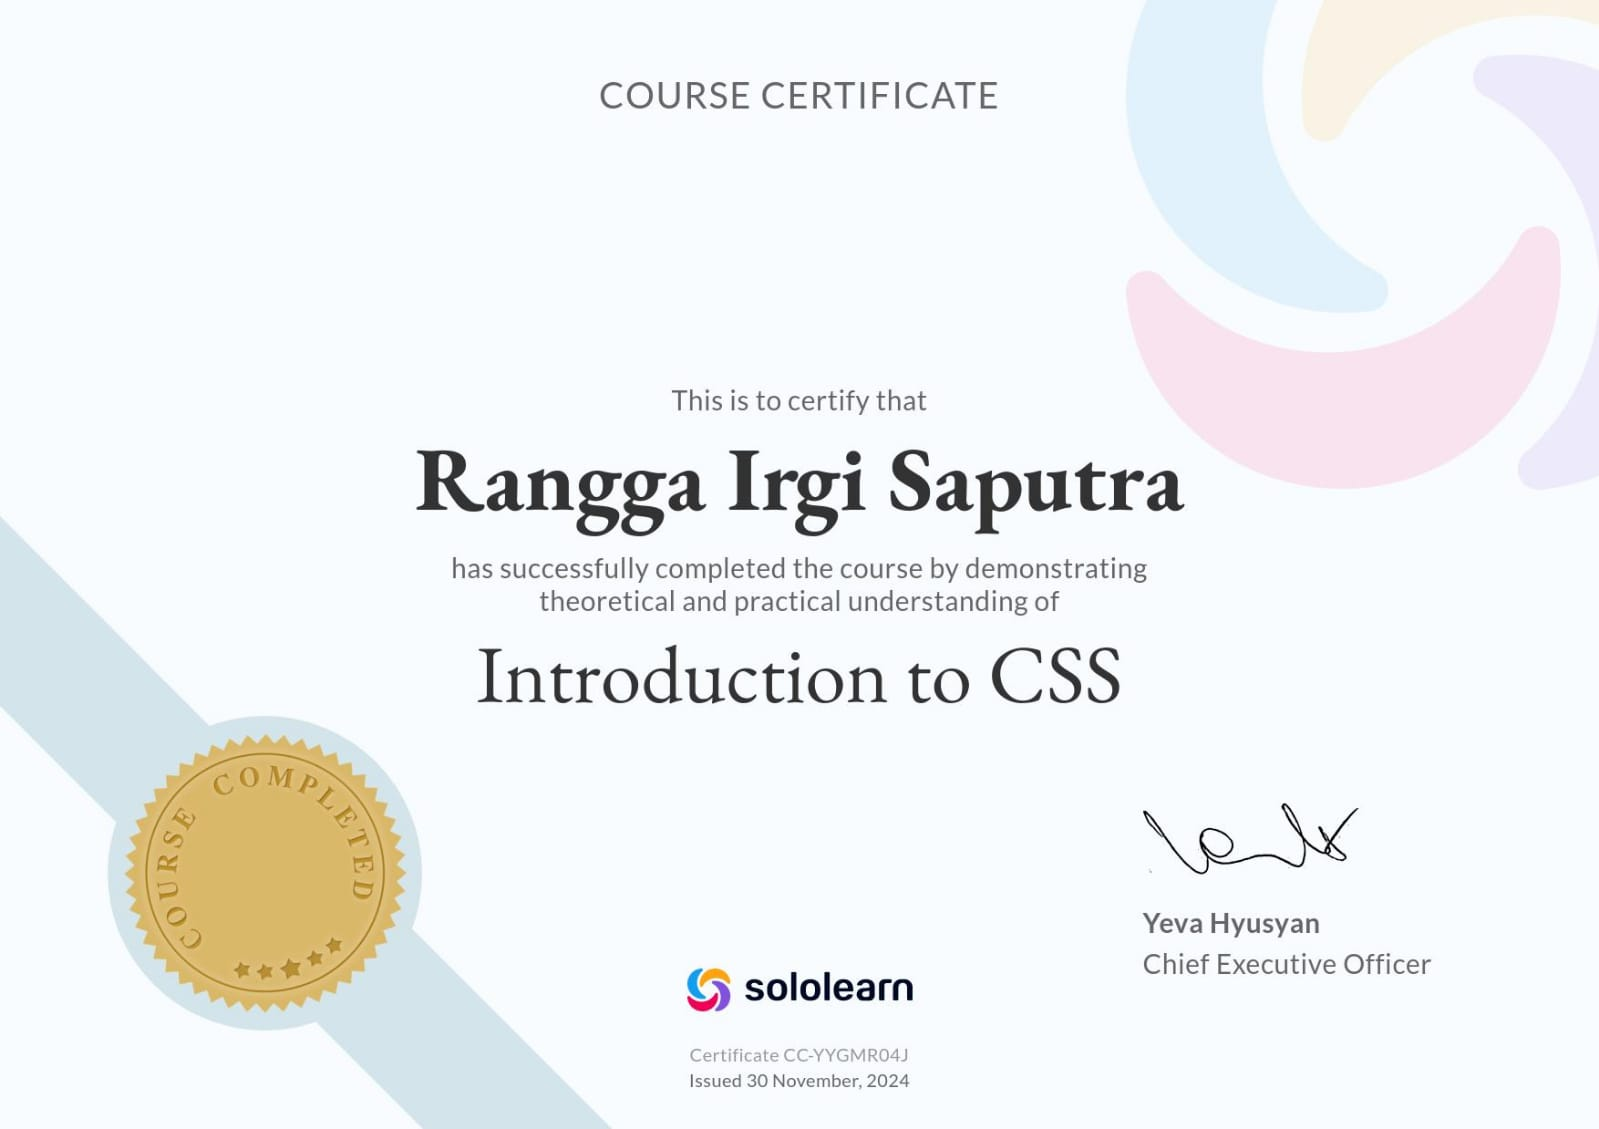
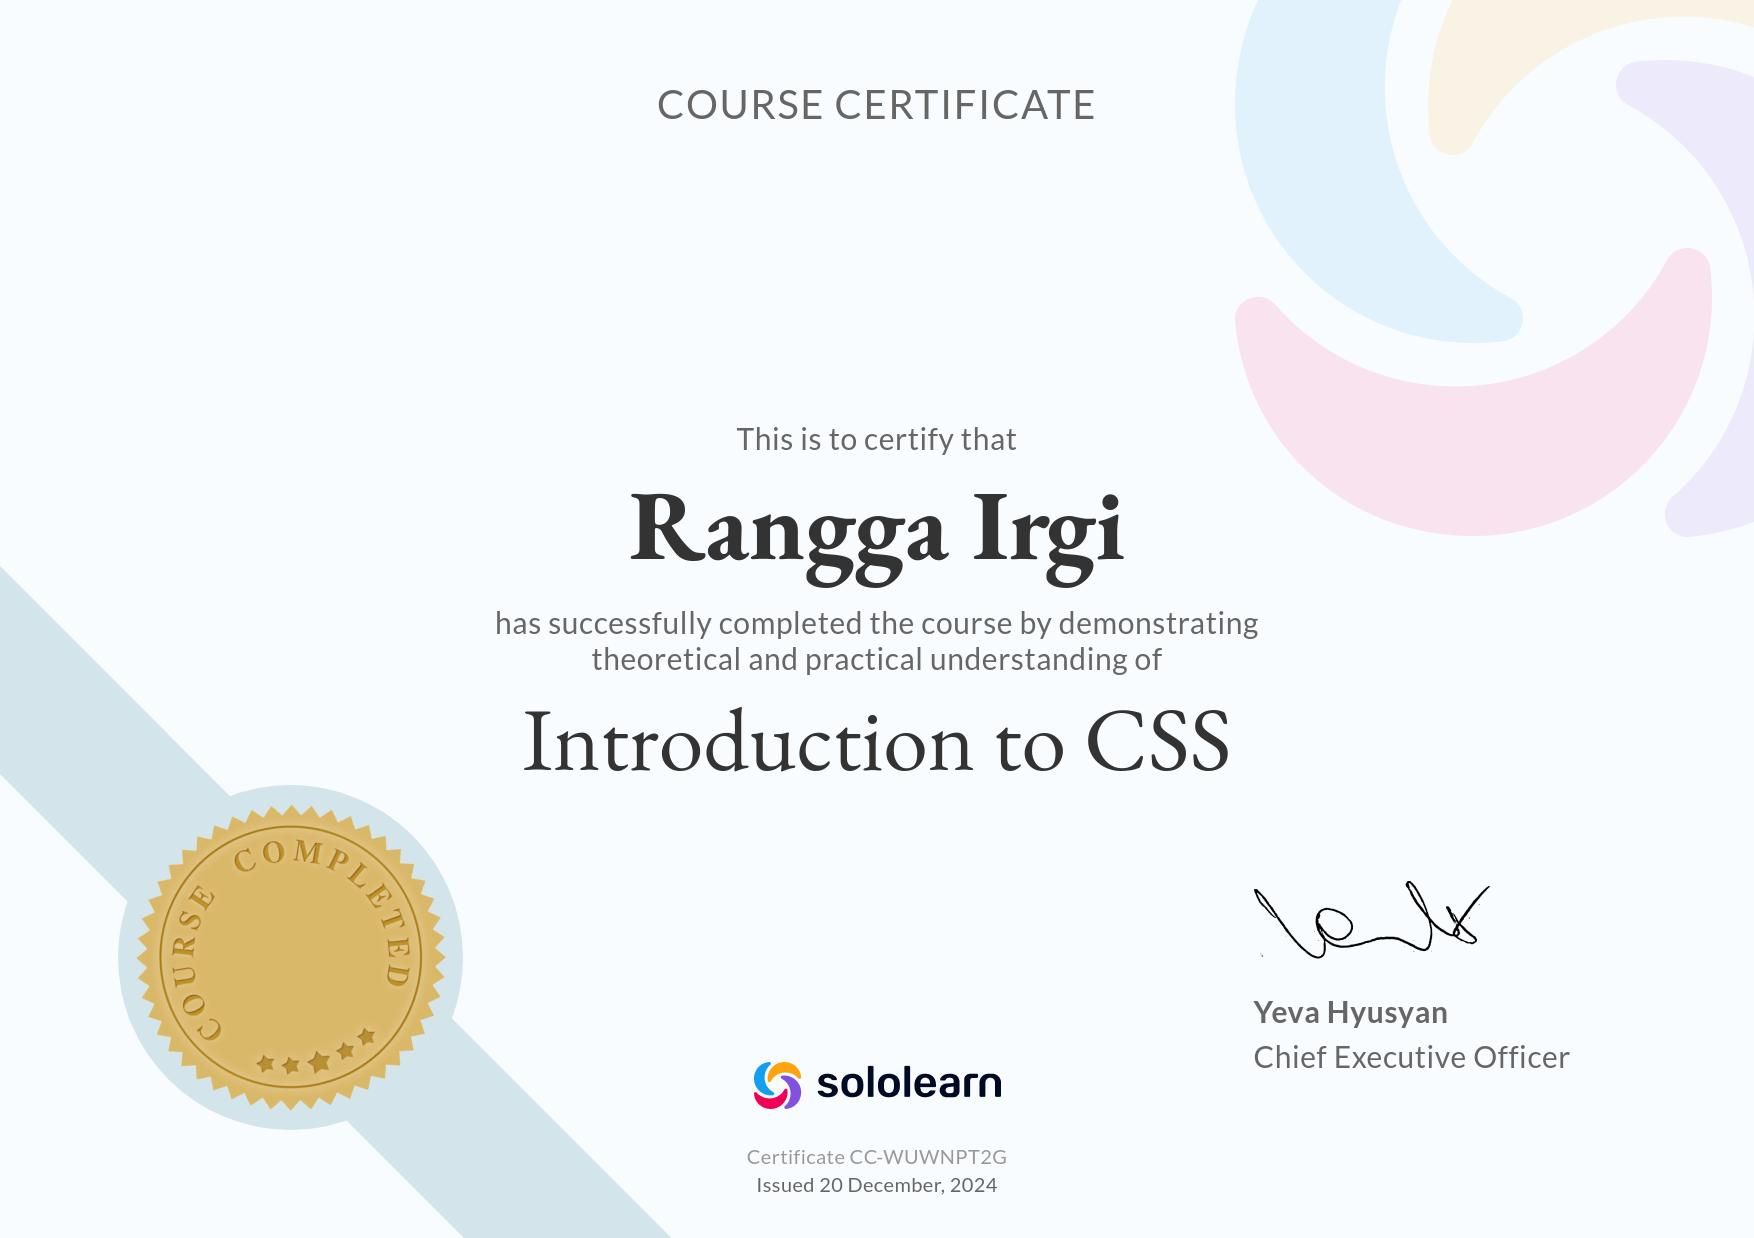
Add files via upload

Changed region(s): [[0.2452, 0.403, 0.7355, 0.496], [0.429, 0.93, 0.5822, 0.961]]

diff --git a/index.html b/index.html
@@ -24,7 +24,7 @@
                         <li class="nav-item"><a class="nav-link" href="#about">About</a></li>
                         <li class="nav-item"><a class="nav-link" href="#projects">Projects</a></li>
                         <li class="nav-item"><a class="nav-link" href="#certificates">Certificates</a></li>
-                        <li class="nav-item"><a class="nav-link" href="#contact">Contact</a></li>
+                        <li class="nav-item"><a class="nav-link" href="#home">Contact</a></li>
                     </ul>
                 </div>
             </div>
@@ -54,6 +54,9 @@
                     </a>
                     <a href="https://wa.link/xjrm50" target="_blank" style="--delay:4;">
                         <i class="fab fa-whatsapp"></i>
+                    </a>
+                    <a href="https://maps.app.goo.gl/XYRYbVqQpey9eSDCA" target="_blank" style="--delay:4;">
+                        <i class="fas fa-map-marker-alt"></i>
                     </a>
                 </div>
             </div>
@@ -105,56 +108,56 @@
                 <div class="project-list">
                     <!-- Project 1 -->
                     <div class="project-card">
+                        <span class="badge bg-dark position-absolute top-0 start-0 m-2">1</span>
                         <a href="https://loginweb-sable.vercel.app/" target="_blank">
                             <img src="login.jpg" alt="Project 1">
                         </a>
-                        <h5>Project 1</h5>
                         <p>Tugas login menggunakan HTML, CSS,.</p>
                     </div>
 
                     <!-- Project 2 -->
                     <div class="project-card">
+                        <span class="badge bg-dark position-absolute top-0 start-0 m-2">2</span>
                         <a href="index.html" target="_blank">
                             <img src="portofolioo.jpg" alt="Project 2">
                         </a>
-                        <h5>Project 2</h5>
                         <p>Membuat tugas portofolio pemrograman web.</p>
                     </div>
 
                     <!-- Project 3 -->
                     <div class="project-card">
+                        <span class="badge bg-dark position-absolute top-0 start-0 m-2">3</span>
                         <a href="https://kalkulator-two-phi.vercel.app/" target="_blank">
                             <img src="kalkulator.jpg" alt="Project 3">
                         </a>
-                        <h5>Project 3</h5>
                         <p>Tugas kalkulator menggunakan HTML, CSS, dan JavaScript.</p>
                     </div>
 
                     <!-- Project 4 -->
                     <div class="project-card">
+                        <span class="badge bg-dark position-absolute top-0 start-0 m-2">4</span>
                         <a href="https://game-tetris-pi.vercel.app/" target="_blank">
                             <img src="game.jpg" alt="Project 3">
                         </a>
-                        <h5>Project 4</h5>
                         <p>Tugas game tetris menggunakan HTML, CSS, dan JavaScript.</p>
                     </div>
 
                     <!-- Project 5 -->
                     <div class="project-card">
+                        <span class="badge bg-dark position-absolute top-0 start-0 m-2">5</span>
                         <a href="https://ranggairgi.github.io/Diagrampenjualan/" target="_blank">
                             <img src="diagramm.jpg" alt="Project 5">
                         </a>
-                        <h5>Project 5</h5>
                         <p>Tugas diagram menggunakan HTML, CSS, dan JavaScript.</p>
                     </div>
 
                     <!-- Project 6 -->
                     <div class="project-card">
-                        <a href="#" target="_blank">
-                            <img src="comingsoonn.jpg" alt="Project 3">
+                        <span class="badge bg-dark position-absolute top-0 start-0 m-2">6</span>
+                        <a href="https://rangga-irgi-saputra-05-tplk002.vercel.app/" target="_blank">
+                            <img src="uts.jpg" alt="Project 3">
                         </a>
-                        <h5>Project 6</h5>
-                        <p>.</p>
+                        <p>UTS.</p>
                     </div>
 
                 </div>
@@ -168,28 +171,28 @@
                 <div class="certificates-list">
                     <!-- Certificate 1 -->
                     <div class="certificates-card">
-                        <a href="#" target="_blank">
-                            <img src="sertifikat1.jpg" alt="Certificate 1">
+                        <span class="badge bg-dark position-absolute top-0 start-0 m-2">1</span>
+                        <a href="https://www.sololearn.com/en/certificates/CC-CRROQQDT" target="_blank">
+                            <img src="re.jpg" alt="Certificate 1">
                         </a>
-                        <h5>Certificate 1</h5>
                     </div>
                     <div class="certificates-card">
-                        <a href="#" target="_blank">
+                        <span class="badge bg-dark position-absolute top-0 start-0 m-2">2</span>
+                        <a href="https://www.sololearn.com/certificates/CC-WUWNPT2G" target="_blank">
                             <img src="sertifikat2.jpg" alt="Certificate 2">
                         </a>
-                        <h5>Certificate 2</h5>
                     </div>
                     <div class="certificates-card">
-                        <a href="#" target="_blank">
-                            <img src="sertifikat3.jpg" alt="Certificate 3">
+                        <span class="badge bg-dark position-absolute top-0 start-0 m-2">3</span>
+                        <a href="https://www.sololearn.com/certificates/CC-4F1QHT8W" target="_blank">
+                            <img src="sertfikat3.jpg" alt="Certificate 3">
                         </a>
-                        <h5>Certificate 3</h5>
                     </div>
                     <div class="certificates-card">
+                        <span class="badge bg-dark position-absolute top-0 start-0 m-2">4</span>
                         <a href="#" target="_blank">
-                            <img src="sertifikat4.jpg" alt="Certificate 3">
+                            <img src="comingsoonn.jpg" alt="Certificate 4">
                         </a>
-                        <h5>Certificate 4</h5>
                     </div>
                 </div>
             </div>

diff --git a/styles.css b/styles.css
@@ -599,6 +599,12 @@ footer {
     z-index: 1;
 }
 
+.badge {
+    font-size: 12px;
+    padding: 5px 10px;
+}
+
+
 
 .certificates-container {
     position: relative;
